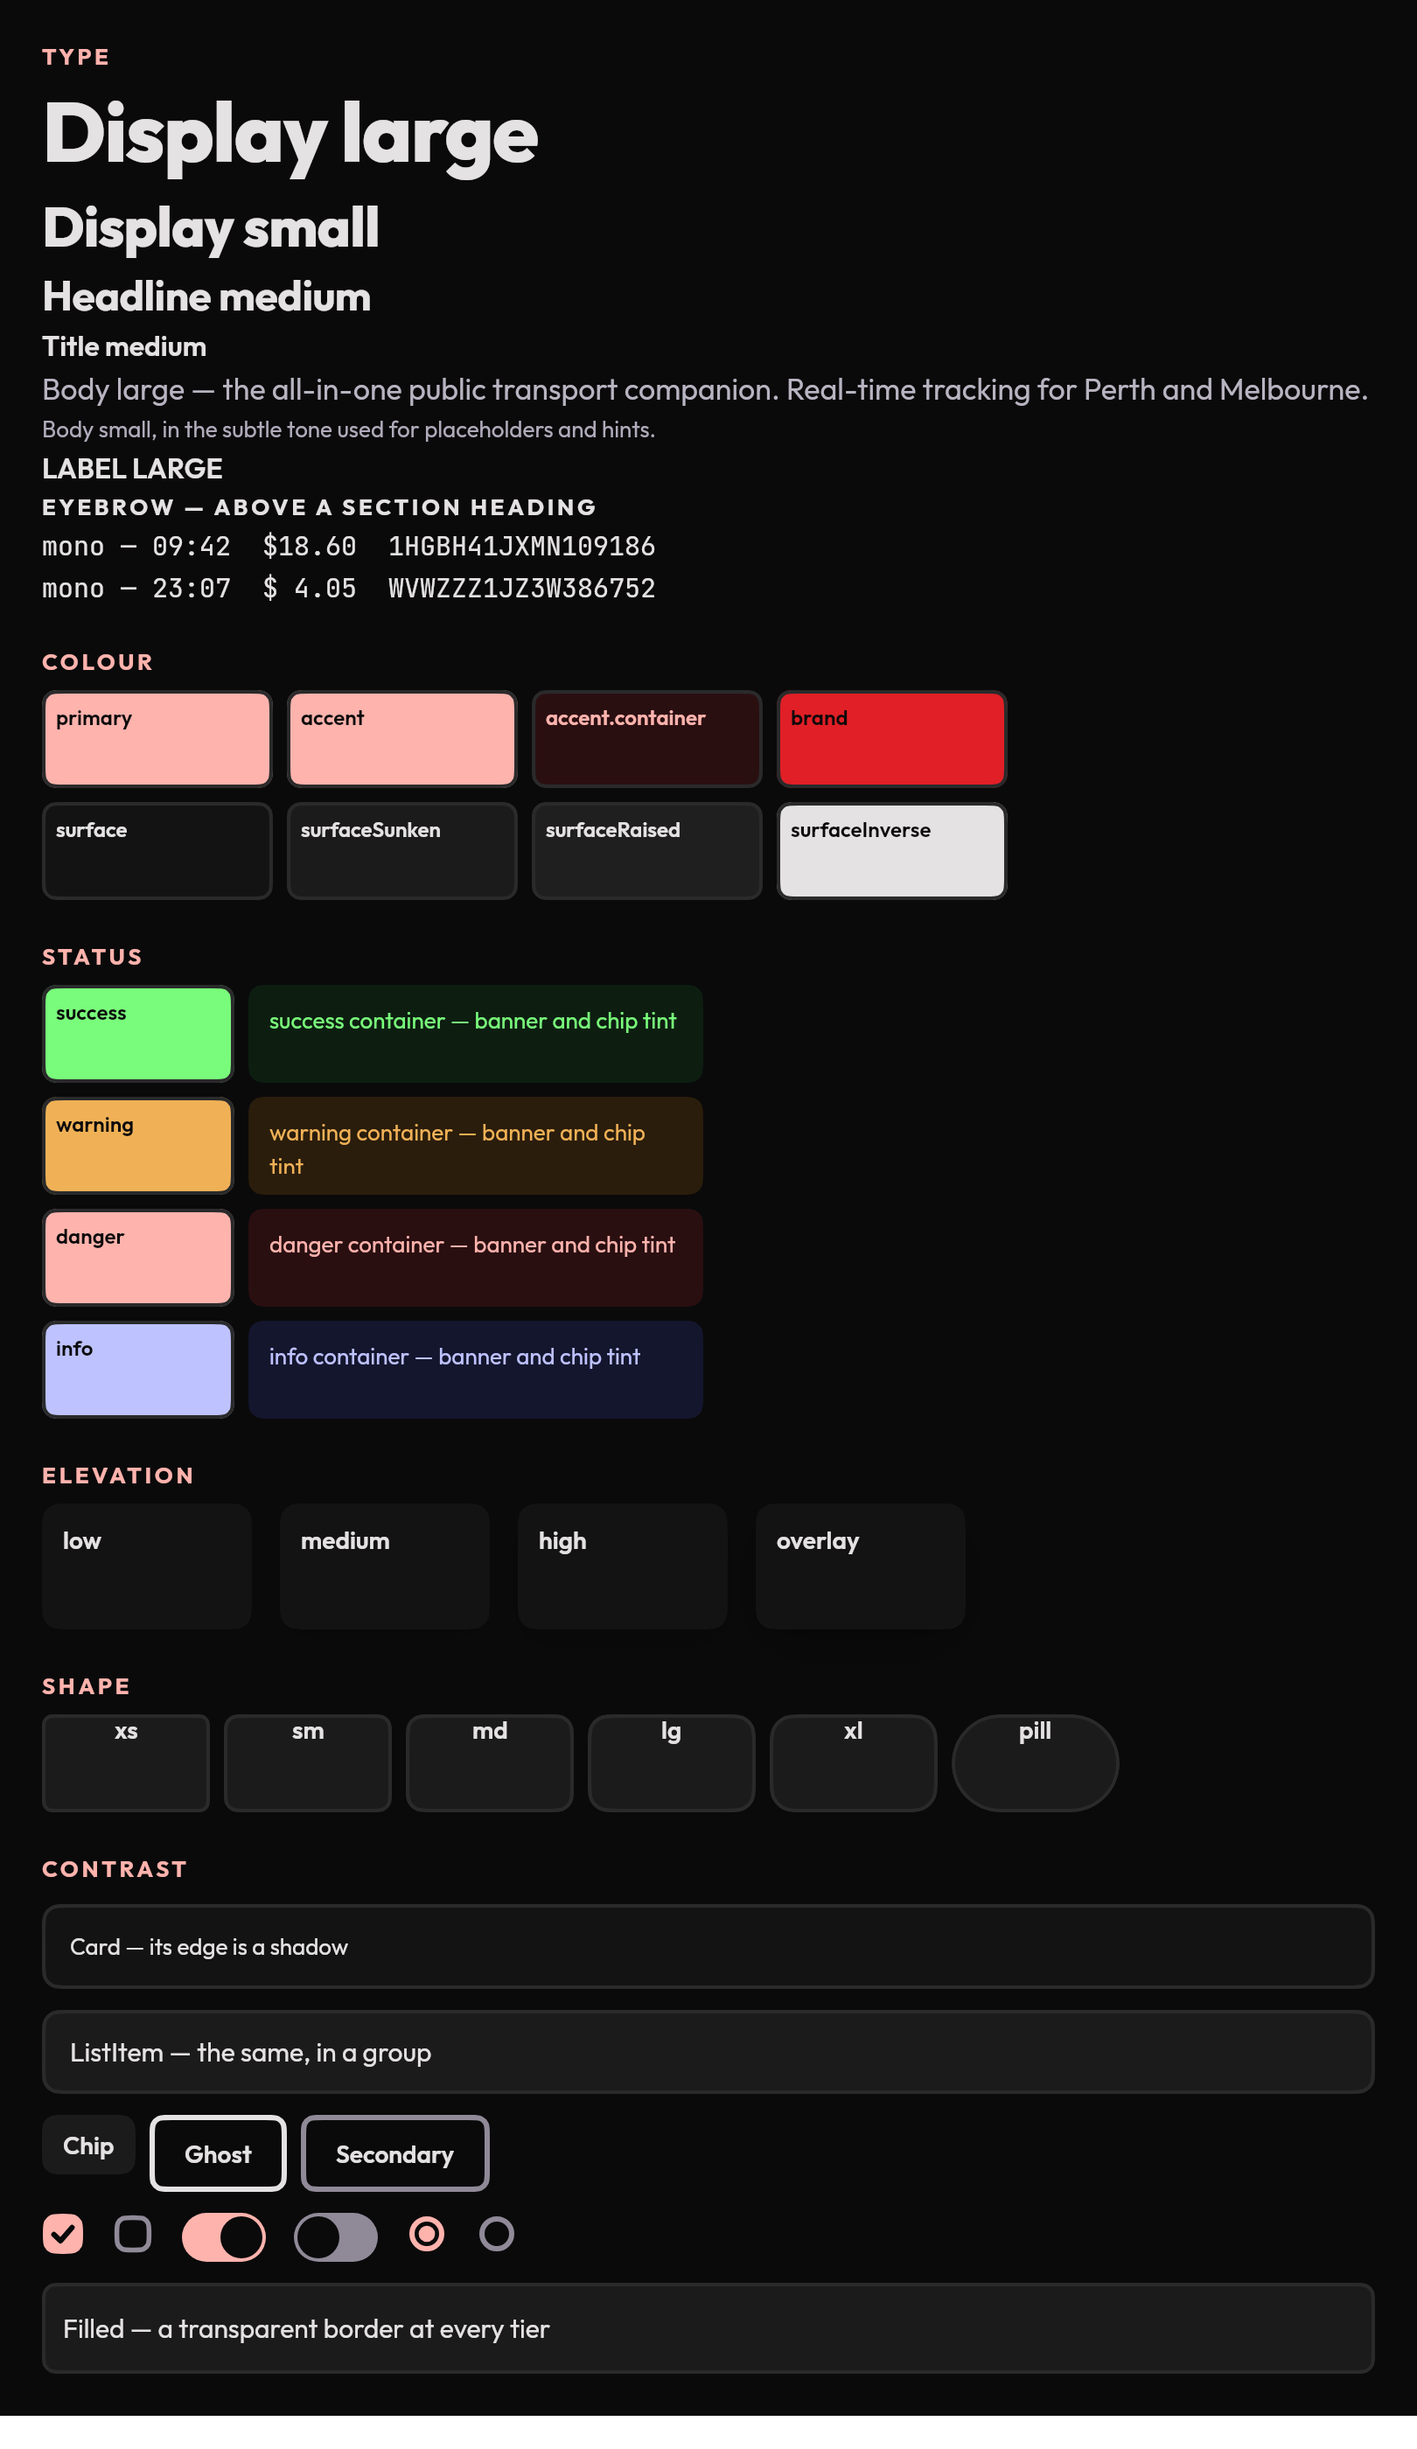
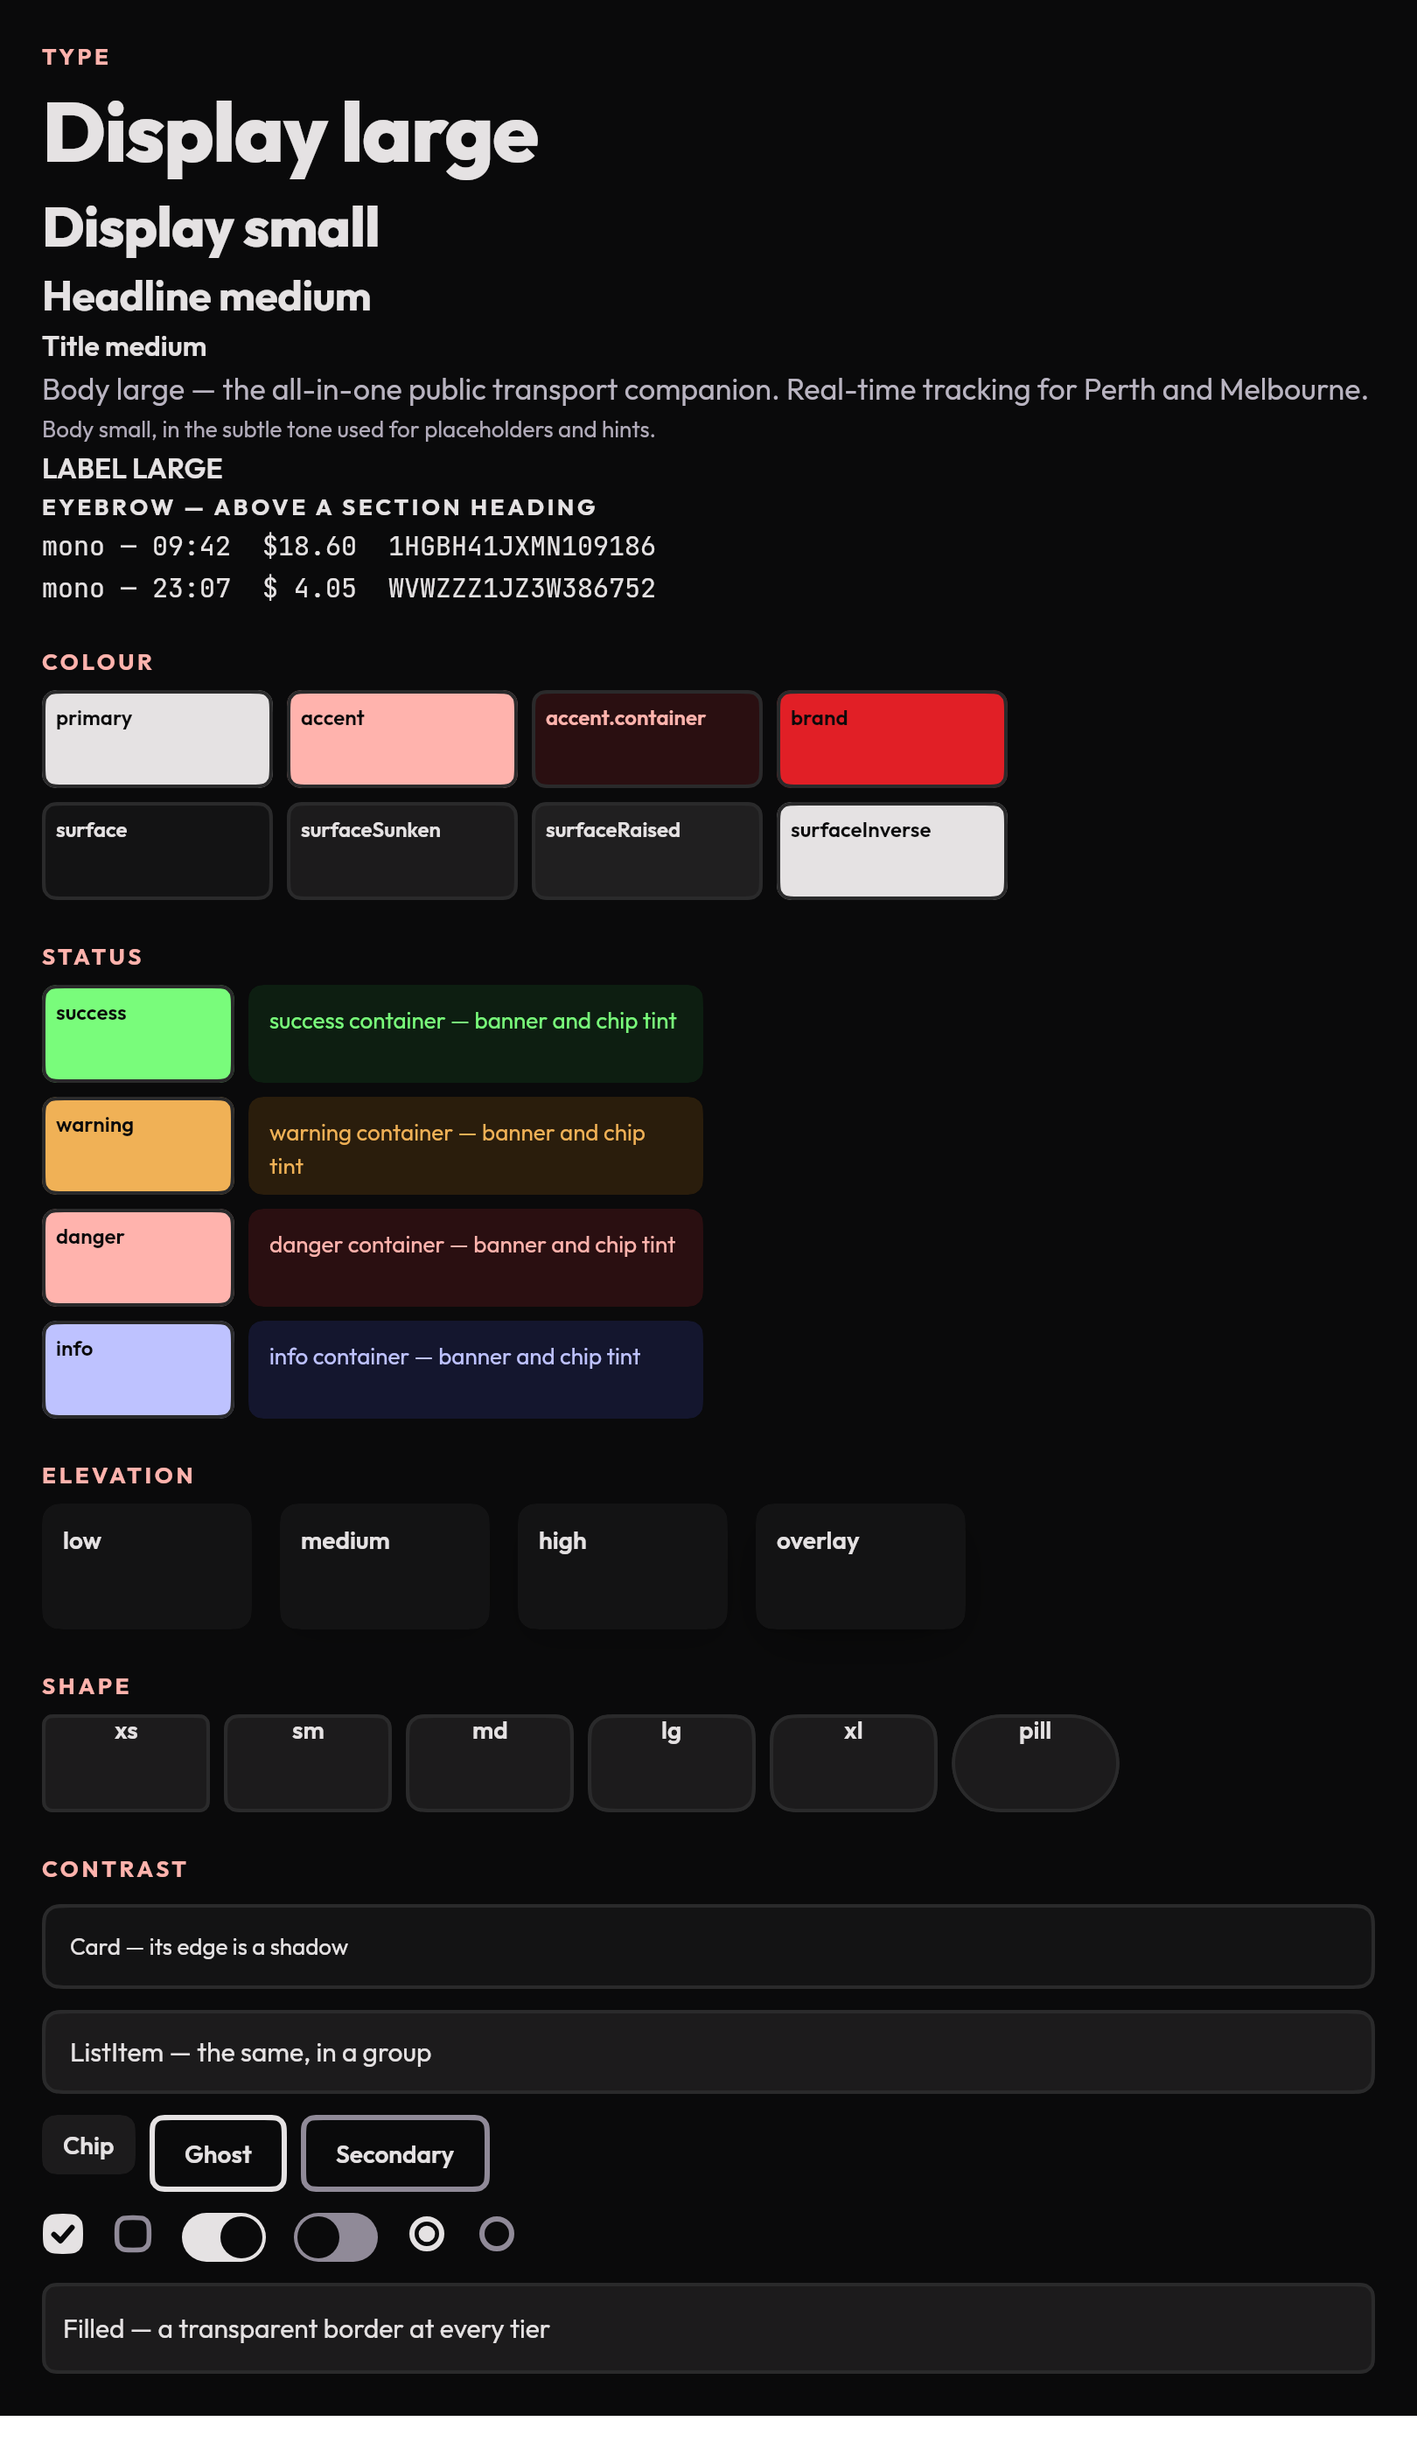
`primary` is structural, and the worked example forgot
`ColourScheme` defines `primary` in one line — "the solid call-to-action
fill: near-black on light, near-white on dark" — and all four built-in
schemes hold to it. GTurbo did not. It wired `primary` to its brand red in
the standard tier, knowingly, with a comment saying so; stage 6b then
carried the departure into the enhanced tier without re-examining it.

That is two roles wired to one constant, and the cost is not the two
identical swatches `ThemeShowcase` has been drawing under different names.
`primary` and `onPrimary` are read in 34 places across `:ui` — both floating
action buttons and `FabMenu`, `Slider` and `RangeSlider`'s active track and
thumb, `RadioButton`'s mark, all three `Progress` forms, `Timeline`'s nodes,
`Carousel`'s active indicator, `CalendarMonth`'s selected day, `Avatar` and
`Tag` — so every one of them was drawn in the accent red. The structural
controls and the brand accent were the same colour everywhere. Nothing
errored and every contrast check passed, because each colour is fine on its
own; what failed was the distinction, and a ratio cannot see a distinction.

It matters more than a private app doing it, because `theming.md` points at
GTurbo as the worked example. A worked example that collapses two roles
teaches the opposite of the page it illustrates.

Both tiers now take `primary = Ink`, `onPrimary = Ground` — the near-white
the definition asks for on a dark ground, 15.38:1 each way, so it clears the
[…]

diff --git a/ui/src/commonTest/kotlin/io/kontour/ui/theme/ColourSchemeContrastTest.kt b/ui/src/commonTest/kotlin/io/kontour/ui/theme/ColourSchemeContrastTest.kt
@@ -5,6 +5,7 @@ import io.kontour.ui.a11y.ContrastThreshold
 import io.kontour.ui.a11y.contrastFailures
 import io.kontour.ui.a11y.contrastRatio
 import kotlin.test.Test
+import kotlin.test.assertTrue
 import kotlin.test.fail
 
 /**
@@ -143,8 +144,8 @@ class BrandIsDecorativeOnlyTest {
      * was the literal Kontour purple and 2.1:1 on white. The library has no
      * product colour now, so there is nothing to assert about the default. What
      * is worth keeping is the check itself, as something an app can run against
-     * its own scheme — which is what [brandIsSafeForText] is for, and what
-     * `anyways` calls on `KontourBrandTheme`.
+     * its own scheme — which is what [brandIsSafeForText] is for, and what the
+     * GTurbo demo theme's logo red would answer `false` to.
      */
     @Test
     fun theDefaultBrandIsTheAccentUntilAnAppSetsOne() {
@@ -167,5 +168,56 @@ class BrandIsDecorativeOnlyTest {
                 fail("accent fails non-text contrast in $name: $ratio:1")
             }
         }
+    }
+}
+
+/**
+ * Pins the other half of that contract: [ColourScheme.primary] is **structural**.
+ *
+ * Three roles carry a product's colour and they are not interchangeable.
+ * [ColourScheme.accent] is the brand as a tone and is under every contrast
+ * obligation. [ColourScheme.brand] is the literal mark and is under none — it is
+ * the one role `contrastFailures` does not walk. [ColourScheme.primary] is
+ * neither: its own KDoc defines it as "the solid call-to-action fill: near-black
+ * on light, near-white on dark", and all four built-in schemes are `Palette.Ink`,
+ * `Palette.Paper`, `Palette.Black` and `Palette.White`.
+ *
+ * ### Why this needed an assertion and `brand` did not
+ *
+ * `brand == accent.solid` is the *documented* default — the library ships no
+ * product, so brand resolves to the accent until an app sets one, and
+ * `ThemeShowcase` labels that swatch "brand — unset" when it happens. Collapse
+ * there is expected and visible.
+ *
+ * `primary == accent.solid` is a defect and is **invisible**. A theme that wires
+ * both to its brand colour draws two identical swatches under different names
+ * and, more to the point, drags all 34 sites that read `primary` along with the
+ * accent — both floating action buttons, `Slider` and `RangeSlider`'s active
+ * track, `RadioButton`'s mark, all three `Progress` forms, `Timeline`'s nodes,
+ * `Carousel`'s indicator, `CalendarMonth`'s selected day. Nothing errors and
+ * every contrast check still passes, because each colour is fine on its own.
+ *
+ * The GTurbo demo theme did exactly that for two stages, and the goldens showed
+ * it plainly the whole time. A picture is not a check.
+ */
+class PrimaryIsStructuralTest {
+
+    @Test
+    fun noBuiltInSchemeUsesItsAccentAsItsPrimary() {
+        val collapsed = listOf(
+            "light" to lightColourScheme(),
+            "dark" to darkColourScheme(),
+            "light/high-contrast" to highContrastLightColourScheme(),
+            "dark/high-contrast" to highContrastDarkColourScheme(),
+        ).filter { (_, scheme) -> scheme.primary == scheme.accent.solid }
+
+        assertTrue(
+            collapsed.isEmpty(),
+            "${collapsed.size} built-in scheme(s) have primary == accent.solid: " +
+                collapsed.joinToString(", ") { it.first } + ". They are separate " +
+                "roles — primary is the structural call-to-action fill and accent " +
+                "is the brand as a tone — and a scheme that gives them one value " +
+                "leaves no component able to tell them apart.",
+        )
     }
 }

diff --git a/ui-catalog/src/commonMain/kotlin/io/kontour/ui/demo/theme/GTurbo.kt b/ui-catalog/src/commonMain/kotlin/io/kontour/ui/demo/theme/GTurbo.kt
@@ -188,12 +188,23 @@ private fun gTurboStandardColours(): ColourScheme = darkColourScheme(
     outlineStrong = LineStrong,
     outlineSubtle = LineSubtle,
 
-    // The solid call to action is the brand red, not the near-white the default
-    // scheme uses. This is the one place GTurbo departs from the library's idea
-    // of `primary` as structural rather than brand — and it is what the design
-    // does on every screen, so the theme follows the design.
-    primary = Red,
-    onPrimary = Color.White,
+    // Structural, not the brand — `primary` is defined as "the solid
+    // call-to-action fill: near-black on light, near-white on dark", and every
+    // built-in scheme holds to it.
+    //
+    // This was the brand red for a while, on the argument that the design's
+    // call to action is red on every screen. True, and it made `primary` and
+    // `accent.solid` the same colour, which is two roles wired to one constant:
+    // `ThemeShowcase` drew two identical red swatches under different names, and
+    // all 34 sites that read `primary` — both floating action buttons, the
+    // slider tracks, the selected radio, every progress form, the timeline
+    // nodes, the carousel indicator, the selected calendar day — went red along
+    // with the accent, so nothing on screen could tell the two apart.
+    //
+    // A red call to action is `ButtonVariant.Accent`, which is what the accent
+    // tone below is for.
+    primary = Ink,
+    onPrimary = Ground,
 
     accent = StatusColours(
         solid = Red,
@@ -322,11 +333,10 @@ private fun gTurboEnhancedColours(): ColourScheme = highContrastDarkColourScheme
     outlineStrong = LineStrongHc,
     outlineSubtle = LineSubtle,
 
-    // Salmon rather than red, and the ground rather than white on it — see the
-    // KDoc. This is the one place the enhanced tier looks different rather than
-    // brighter, and it is the design's own second red doing the job it was
-    // picked for.
-    primary = Salmon,
+    // The same structural near-white as the standard tier. It already clears
+    // the enhanced thresholds by a wider margin than anything else in the
+    // palette — 15.38:1 each way — so the tier changes nothing here.
+    primary = Ink,
     onPrimary = Ground,
 
     accent = StatusColours(

diff --git a/ui-catalog/src/commonTest/kotlin/io/kontour/ui/demo/theme/DemoThemeContrastTest.kt b/ui-catalog/src/commonTest/kotlin/io/kontour/ui/demo/theme/DemoThemeContrastTest.kt
@@ -46,6 +46,49 @@ class DemoThemeContrastTest {
         }
     }
 
+    /**
+     * `primary` is structural, in every combination every theme claims.
+     *
+     * The library's counterpart is `PrimaryIsStructuralTest` in `:ui`, which
+     * walks the four built-in schemes. This walks the demo themes, and it is the
+     * one that has teeth: the built-ins have always held to the definition and
+     * GTurbo did not, for two stages, while every contrast check passed and both
+     * its goldens showed two identical red swatches under different names.
+     *
+     * `primary == accent.solid` is invisible to everything else here. Each
+     * colour clears its own thresholds; what fails is the *distinction*, and a
+     * ratio cannot see a distinction.
+     */
+    @Test
+    fun everyThemeKeepsPrimaryDistinctFromItsAccent() {
+        val collapsed = buildList {
+            for (theme in demoThemes) {
+                for (mode in theme.modes) {
+                    for (tier in theme.tiers) {
+                        val scheme = theme.colours(mode == ThemeMode.Dark, tier)
+                        if (scheme.primary == scheme.accent.solid) {
+                            add("${theme.name} $mode/$tier")
+                        }
+                    }
+                }
+            }
+        }
+
+        if (collapsed.isNotEmpty()) {
+            fail(
+                "${collapsed.size} scheme(s) give `primary` and `accent.solid` the " +
+                    "same value:\n\n" + collapsed.joinToString("\n") { "  $it" } +
+                    "\n\nThey are separate roles. `primary` is the structural " +
+                    "call-to-action fill — near-black on light, near-white on dark " +
+                    "— and is read by 34 sites in :ui including both floating " +
+                    "action buttons, the slider tracks, the selected radio and " +
+                    "every progress form. `accent` is the brand as a tone. A theme " +
+                    "whose call to action is its brand colour wants " +
+                    "`ButtonVariant.Accent`, not `primary`.",
+            )
+        }
+    }
+
     @Test
     fun aThemeDrawsOnlyWhatItClaims() {
         // The resolution order is the reader's preference, then the theme's

diff --git a/ui/src/commonMain/kotlin/io/kontour/ui/theme/ColourScheme.kt b/ui/src/commonMain/kotlin/io/kontour/ui/theme/ColourScheme.kt
@@ -97,9 +97,12 @@ data class StatusColours(
  *   It is a **role**, not a hue. The default schemes have no product in them, so
  *   it resolves to the same blue as [accent]; an app that sets one separates the
  *   two. The reason it is a separate token at all is that a brand colour is
- *   under no obligation to pass a contrast checker — Kontour's own `#BB86FC` is
- *   2.1:1 on white — and [accent] is under every obligation, so one token could
- *   not be both. `KontourBrandTheme` in `anyways` is the worked example.
+ *   under no obligation to pass a contrast checker and [accent] is under every
+ *   obligation, so one token could not be both. The GTurbo demo theme is the
+ *   worked example: its logo red `#E11F26` is 4.17:1 on its own near-black
+ *   ground — fine as a mark, unreadable as text — while its [accent] carries
+ *   both a fill label and body copy. [io.kontour.ui.a11y.brandIsSafeForText] is
+ *   the question to ask of your own scheme.
  * @property focusRing The keyboard focus indicator. Held to 3:1 against every
  *   ground in the scheme, which is why it is separate from [brand] and follows
  *   [accent] instead.
@@ -135,8 +138,20 @@ data class ColourScheme(
     val outlineSubtle: Color,
 
     // --- Primary action ---
-    /** The solid call-to-action fill: near-black on light, near-white on dark. */
+    /**
+     * The solid call-to-action fill: near-black on light, near-white on dark.
+     *
+     * **Structural, not brand.** The product's colour is [accent] (as a tone) and
+     * [brand] (as a mark); this is the third role and it is the neutral one. It
+     * reaches far past a filled button — the slider's active track, the radio
+     * mark, all three progress forms, the selected calendar day — so a scheme
+     * that sets it to its brand colour tints every one of those and leaves no
+     * component able to tell the two roles apart. Nothing errors when that
+     * happens and contrast still passes, which is why
+     * `PrimaryIsStructuralTest` asserts it instead.
+     */
     val primary: Color,
+    /** What is legible on [primary]. */
     val onPrimary: Color,
 
     // --- Accent ---

diff --git a/ui-docs/content/tokens.md b/ui-docs/content/tokens.md
@@ -69,6 +69,17 @@ WCAG 1.4.11 asks of a UI component boundary. Inputs, checkboxes and switches use
 | `brand` | `#1D4ED8` | `#93C5FD` | The literal brand colour, decoration first |
 | `focusRing` | `#1D4ED8` | `#93C5FD` | The keyboard focus indicator |
 
+**Three roles carry a product's colour and `primary` is not one of them.** It is
+*structural* — near-black on light, near-white on dark, in every scheme the
+library ships — and it reaches a long way past a filled button: the slider's
+active track, the selected radio mark, every progress form, the timeline nodes,
+the carousel indicator, the selected day in a calendar. Setting it to a brand
+colour tints all of those at once, which is a real cost and an easy one to miss,
+because nothing errors and every contrast check still passes: each colour is fine
+on its own, and what fails is the *distinction*. If a design's call to action is
+its brand colour, that is `ButtonVariant.Accent` — reach for `accent`, and leave
+`primary` structural. A theme that collapses the two is checked on every build.
+
 **`accent` is a tone, not four loose fields.** It is a `StatusColours` exactly
 like `success` and the rest, so there is one tone type and six tones:
 
